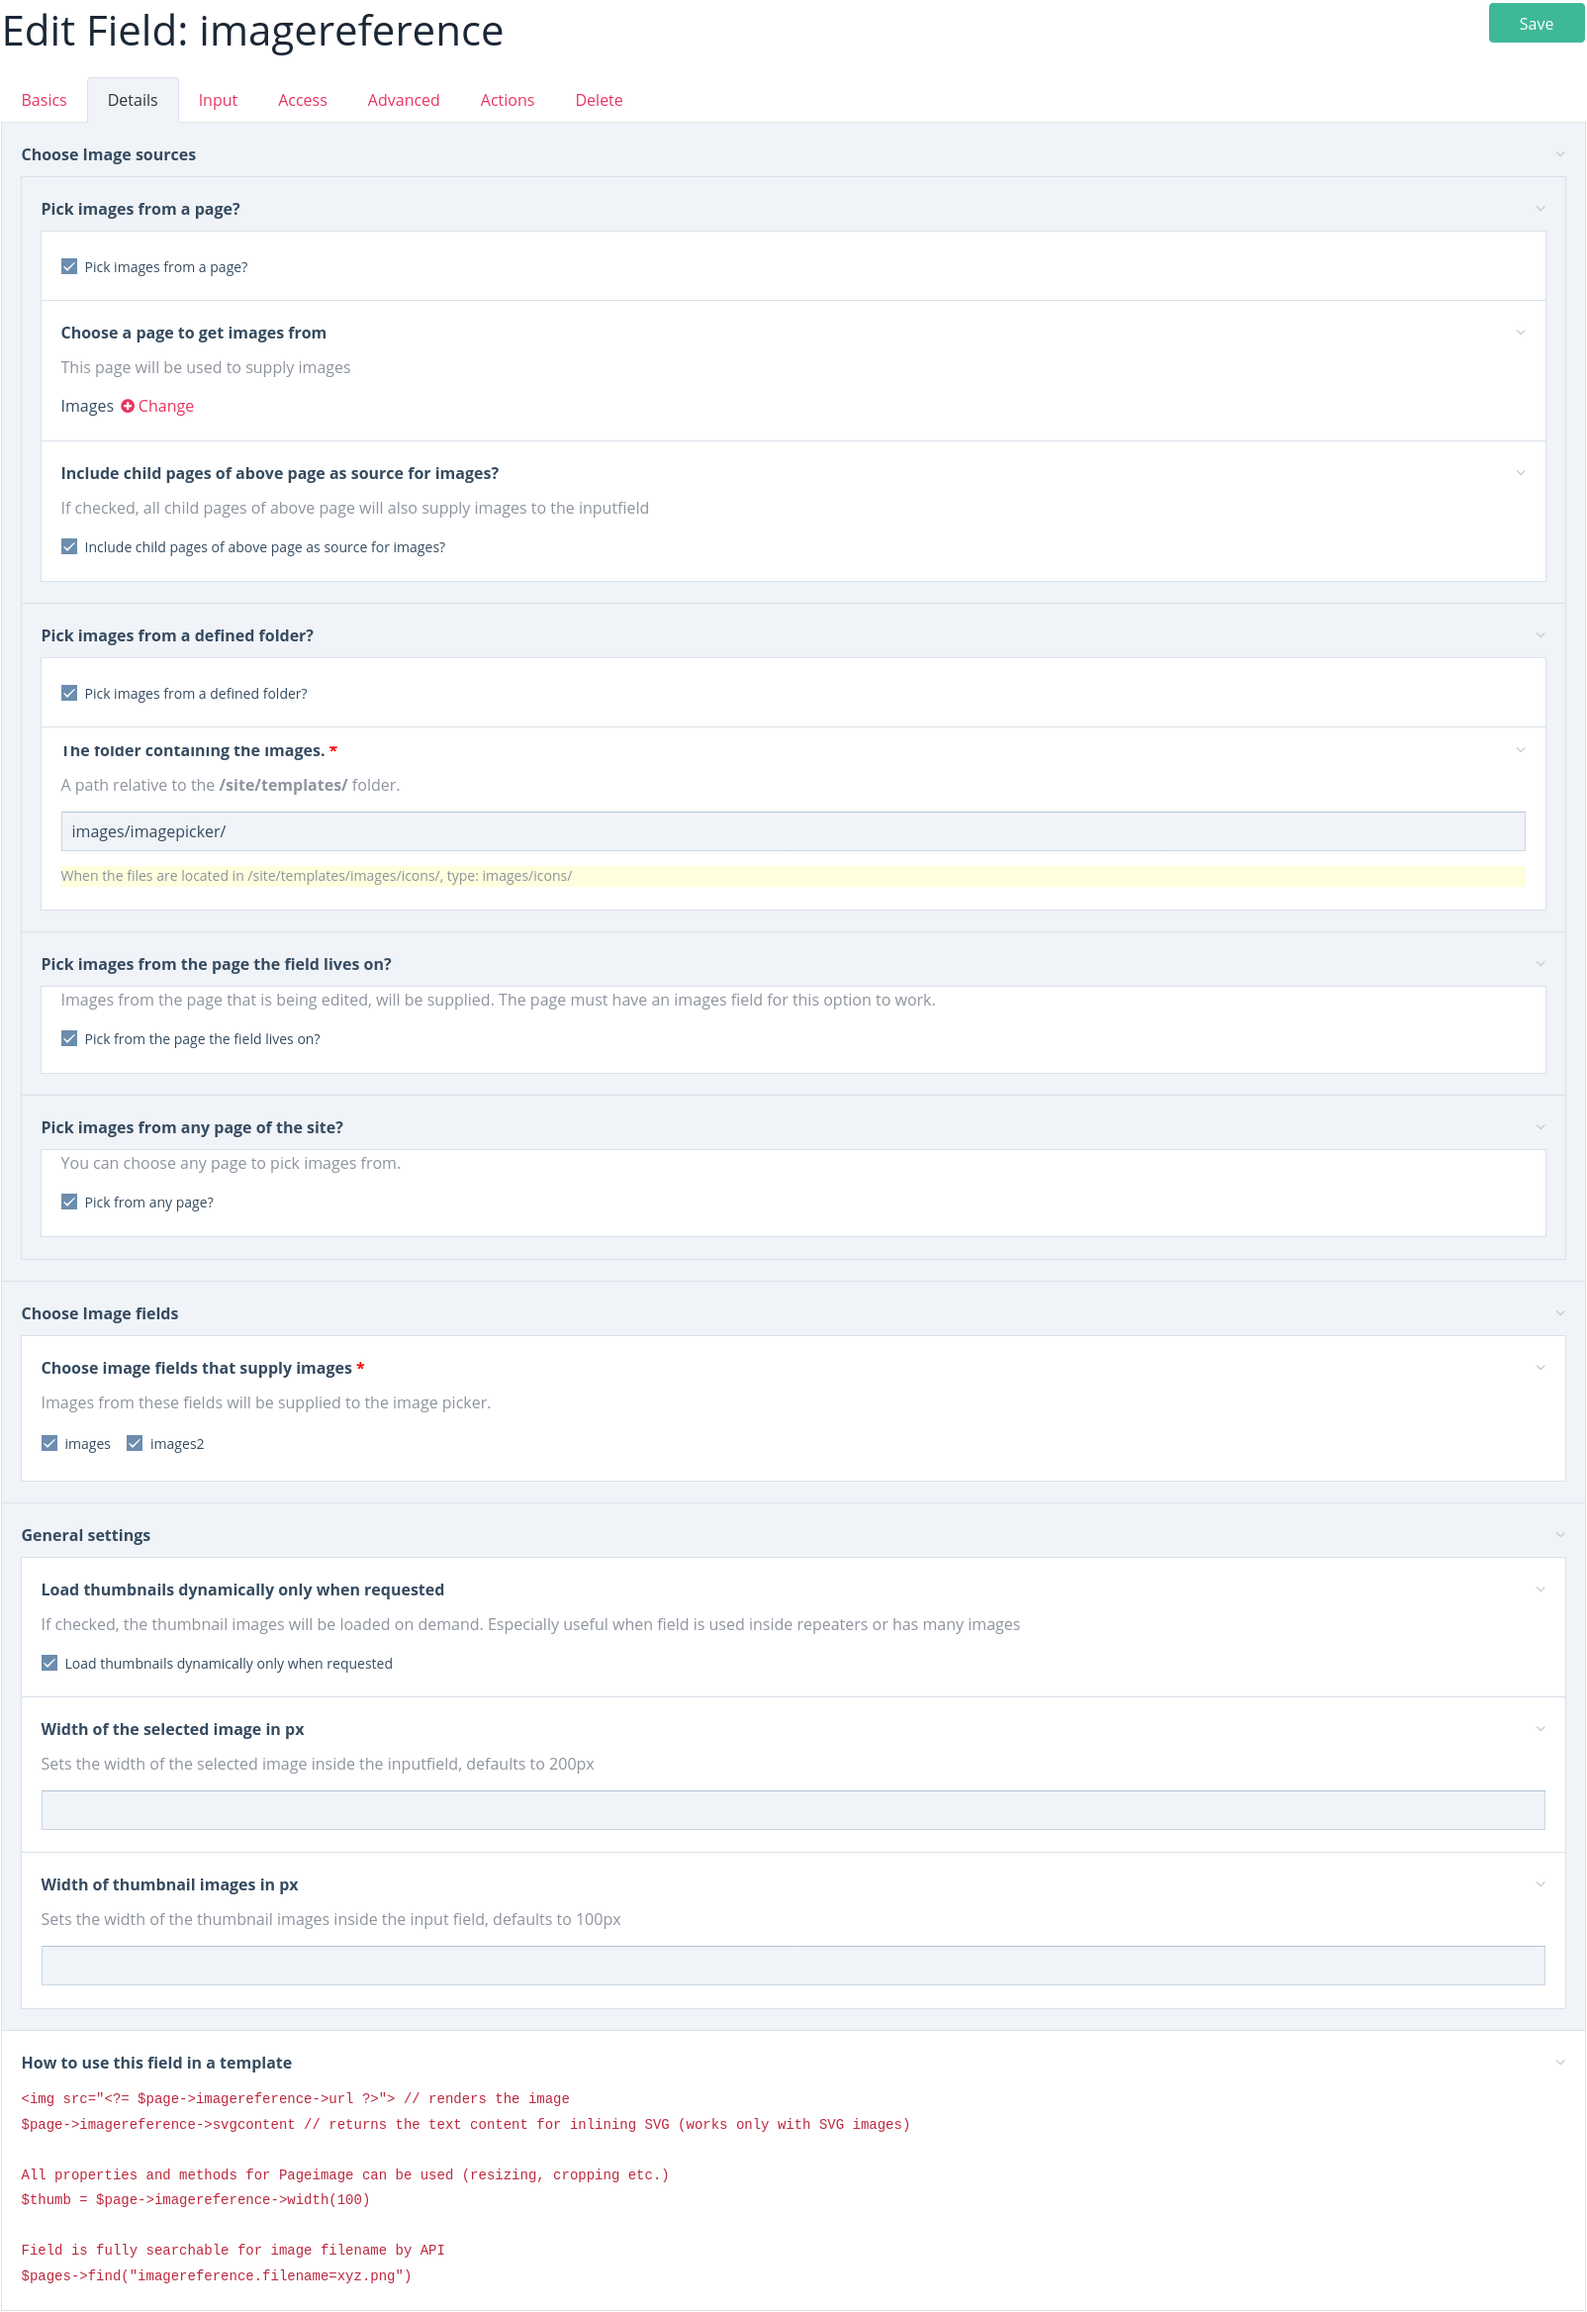
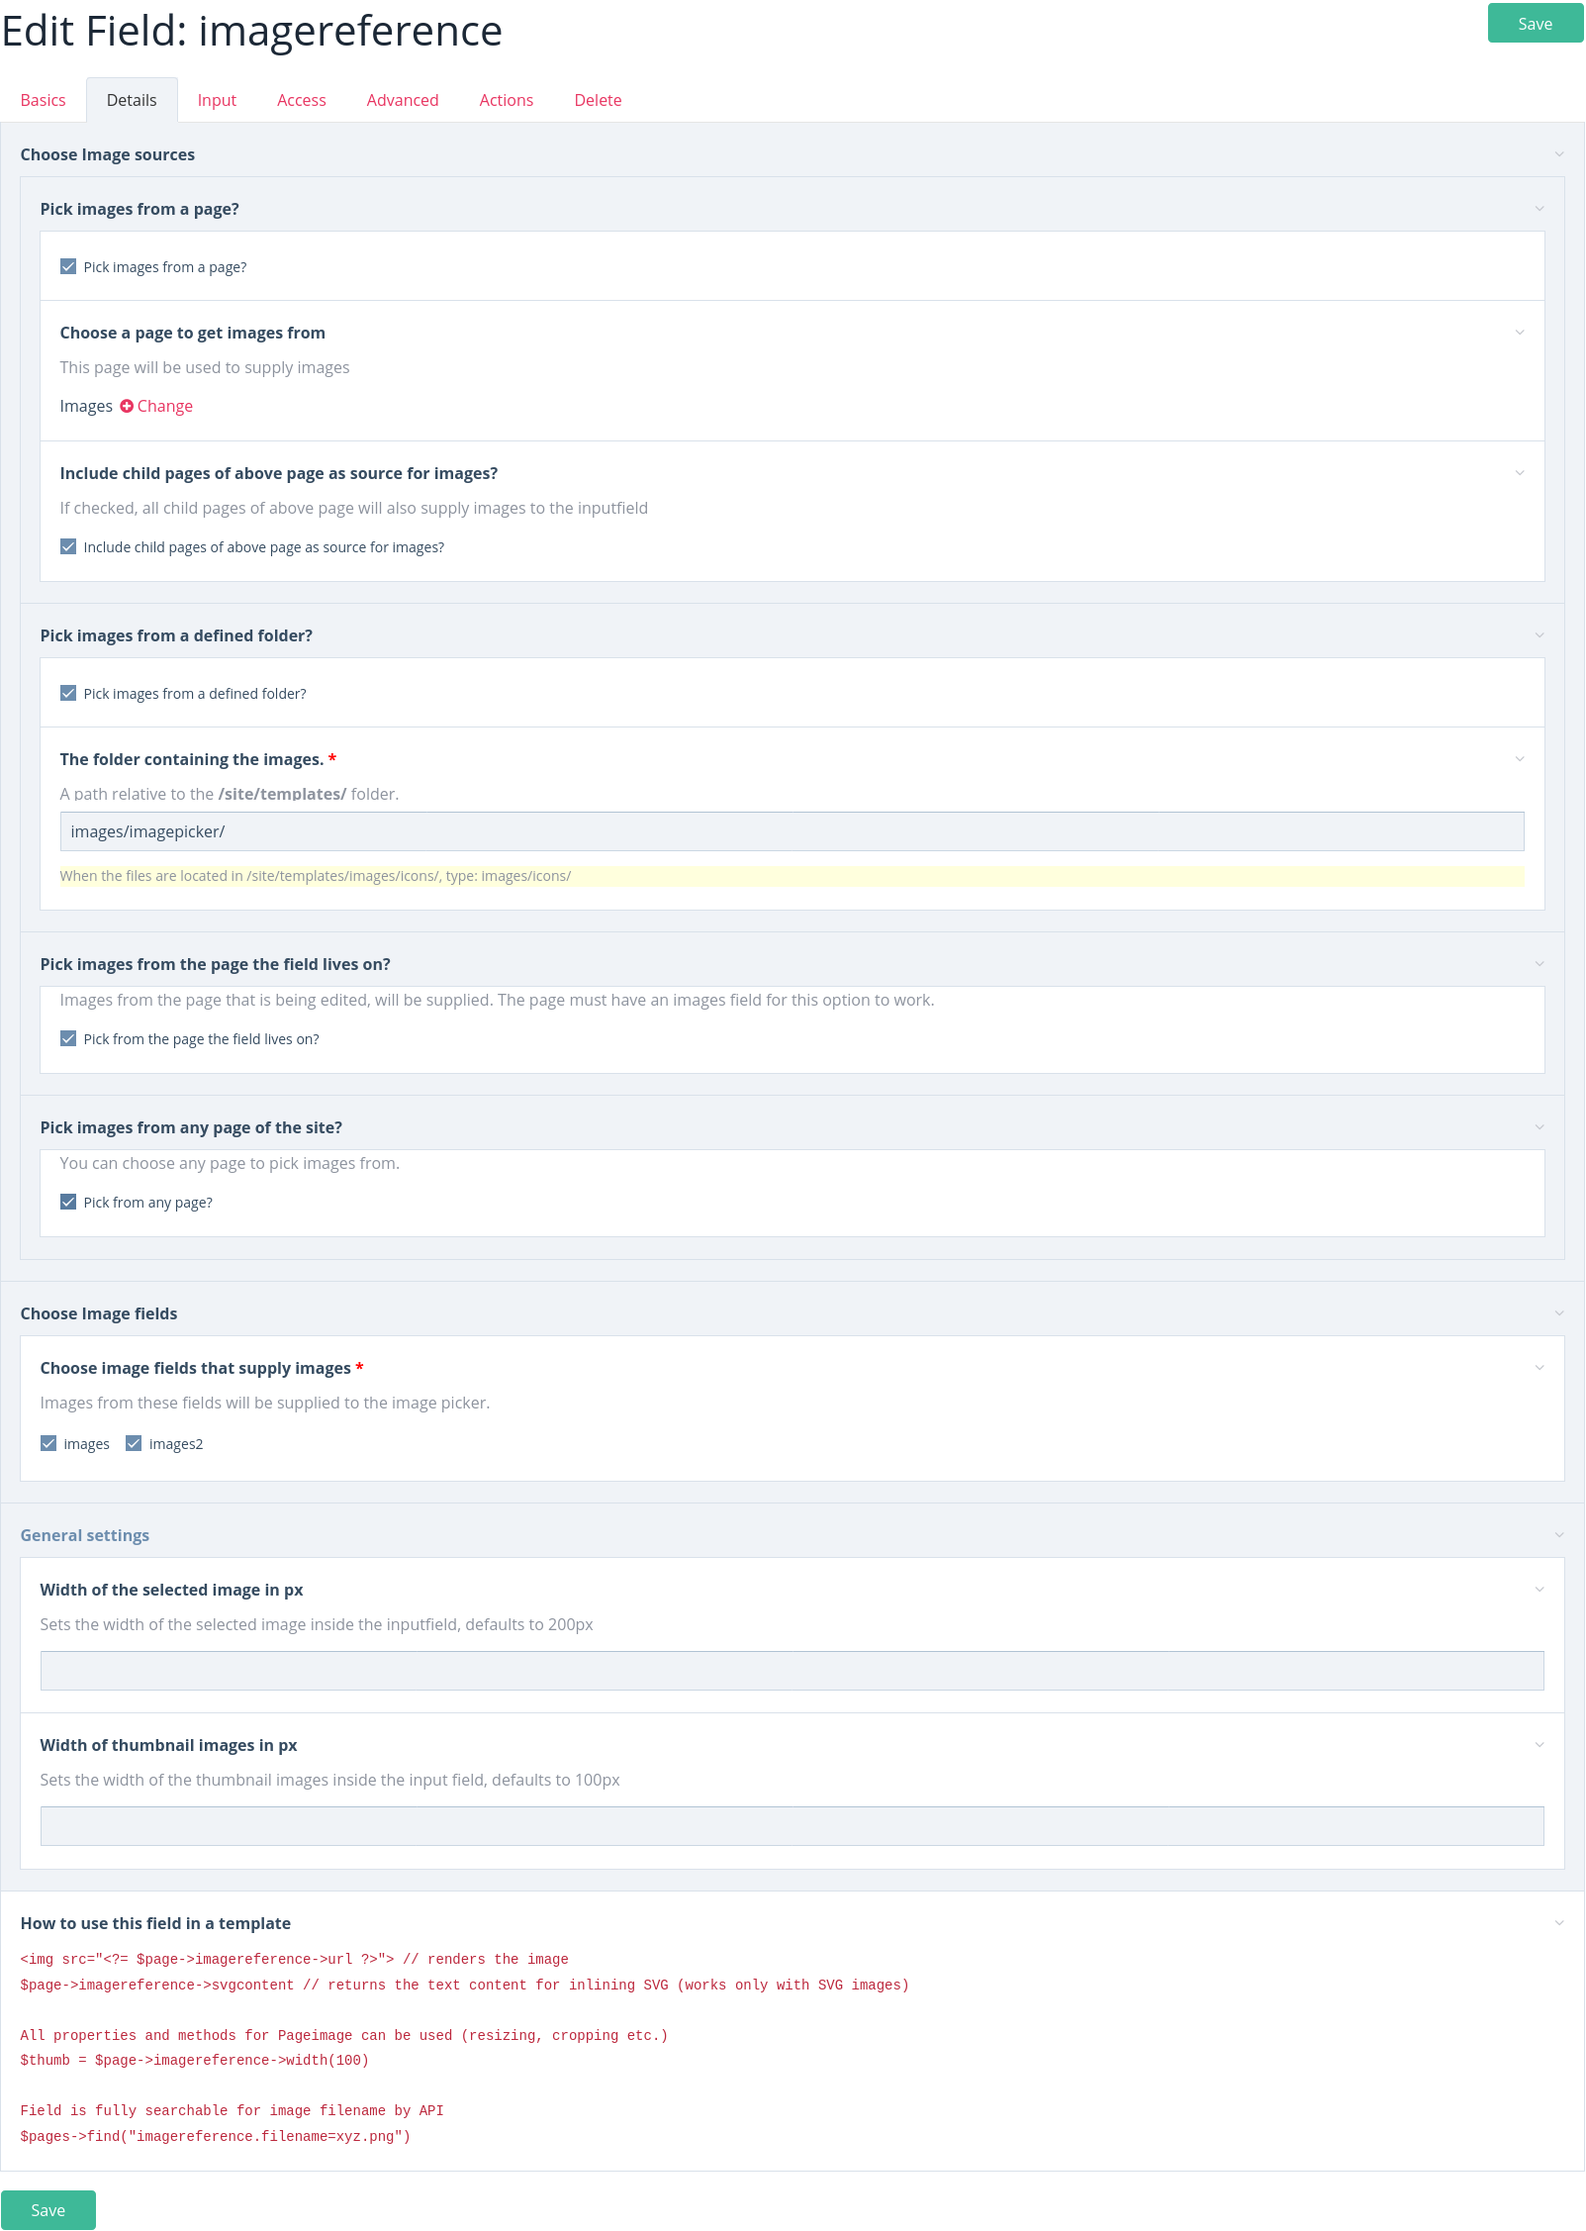
always ajax load thumbnails

diff --git a/README.md b/README.md
@@ -29,7 +29,7 @@ Other than the native ProcessWire images field, the images here are not stored p
 * Images can be organized into categories. Child pages of the main 'image source page' serve as categories
 * Images can be loaded from any page on the site
 * From the API side, images can be manipulated like native ProcessWire images (resizing, cropping etc.), even the images from a folder
-* Image thumbnails are optionally loaded into inputfield by ajax on demand
+* Image thumbnails are loaded into inputfield by ajax on demand
 * Markup of SVG images can be rendered inline with `echo $image->svgcontent`
 * Image names are fully searchable through the API
 ```php
@@ -47,7 +47,6 @@ $pages->find('fieldname.filename%=xy.png');
 * Option to also include the images from the page being edited
 * Option to choose images from any page on the site
 * The image fields to use. These fields will supply images to the image reference field
-* Option to load thumbnails on demand via ajax. Especially useful when field is used inside repeaters or has many images
 * Width of chosen image in Inputfield.
 * Width of image thumbnails in Inputfield.
 
@@ -63,14 +62,13 @@ All settings are per field that you create from this fieldtype. This means you c
 5. Create a new field. As type choose 'Image Reference'. Save the field.
 6. Optional: in 'Details' Tab of the field choose the page you created in step 2
 7. Optional: click Save button
-8. Optional: choose the images field name for the field that holds your images (on page template from step 2)
 9. Optional: click Save button again
 10. Optional: upload images to a folder inside site/templates
 11. Optional: choose to use that folder as image source
 12. Optional: choose whether you want to include child pages of page from step 2 to supply images
-13. Optional: choose whether you want to include images from the page the field lives on.
+13. Optional: choose whether you want to include images from the page being edited
 14. Optional: choose images from any page of the site
-15. Optional: choose the images field name on the page that holds the images
+15. Optional: choose the images field names of the fields that supply images
 16. Add the field to any template
 17. You are now ready to use the field
 
